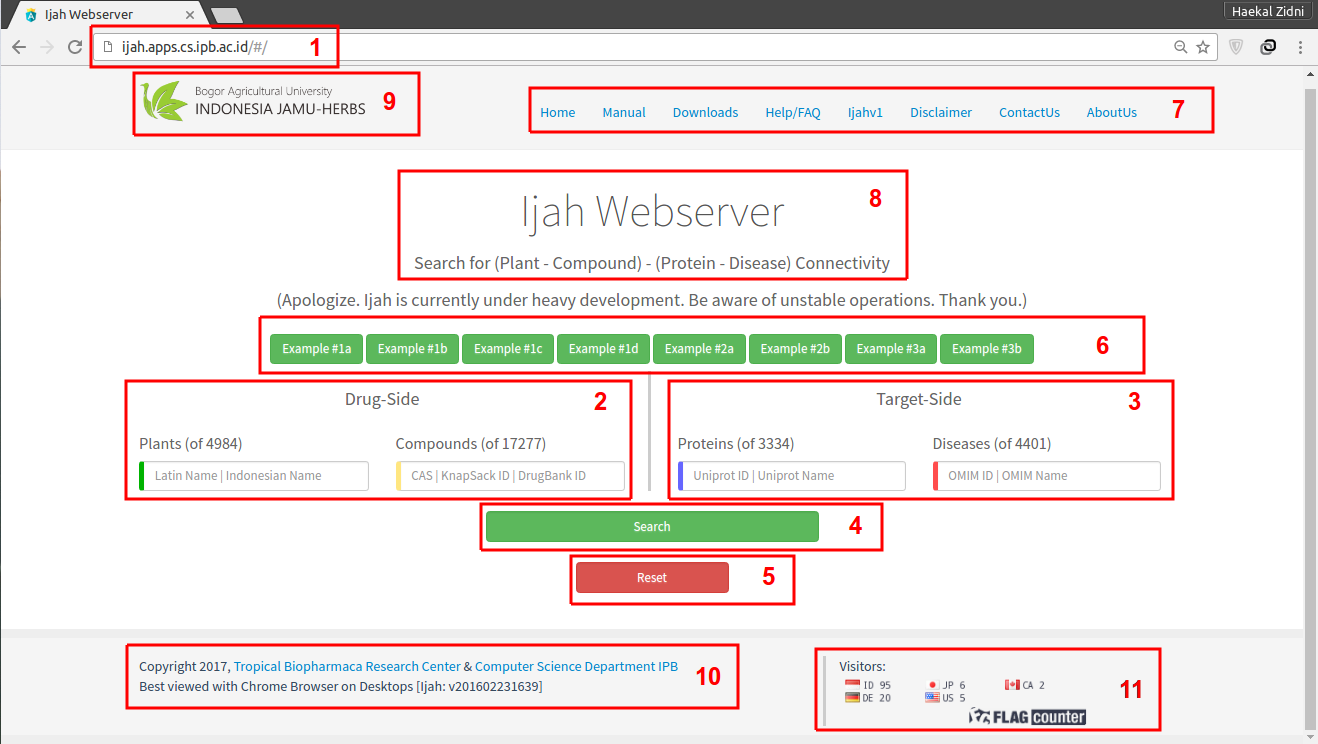
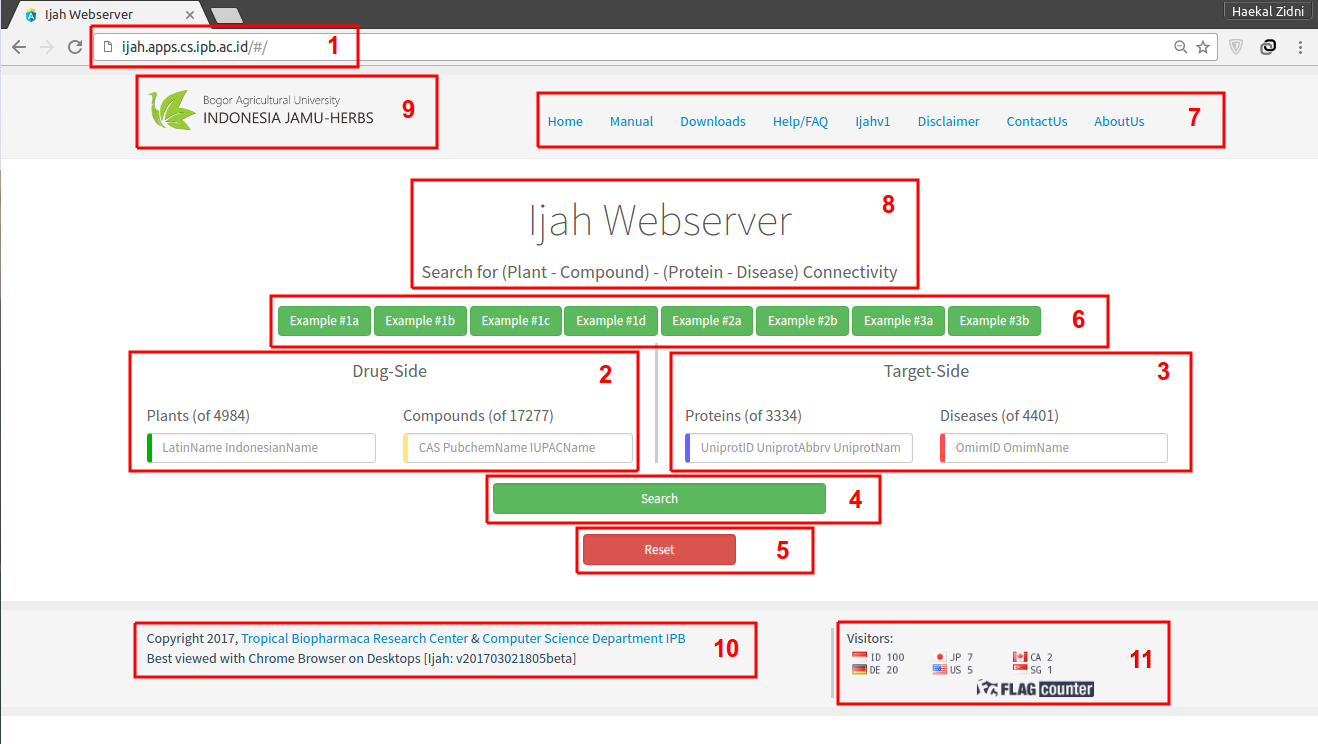
adapted footer to current version number, adapted images and added IUPAC name to input explanation as per current version

Changed region(s): [[0.0933, 0.0309, 0.9332, 0.9583], [0.9643, 0.0927, 1.0, 0.9892], [0.6222, 0.8347, 0.9021, 0.9892]]

diff --git a/webserver/manual/manual-id/src/chap1.tex b/webserver/manual/manual-id/src/chap1.tex
@@ -68,11 +68,11 @@
 			\paragraph{Plants}
 			Input Plant terdiri dari nama Latin dan nama Indonesia dari tanaman, yang dipisahkan oleh suatu garis vertikal. Hal ini memudahkan jika kita hanya mengetahui nama latin suatu tanaman dan tidak mengetahui nama lokalnya, begitu pula sebaliknya jika hanya mengetahui nama lokalnya. Selain membantu pencarian, pada kasus salah satu nama tidak diketahui maka akan didapat pengetahuan mengenai nama tanaman tersebut.
 			\paragraph{Compounds}
-			Input Compound terdiri dari ID CAS, \hyperref[knapsack]{ID KNApSAcK}, atau \hyperref[drugbank]{ID DrugBank} dari senyawa tersebut, setiap ID dipisahkan oleh garis vertikal. 
+			Input Compound terdiri dari ID CAS, \hyperref[pubchem]{ID PubChem}, atau nama IUPAC dari senyawa tersebut, setiap ID dipisahkan oleh garis vertikal. 
 		\subsubsection{Target-side} \label{sssec:target input}
 		Pada Target-side, input terdiri dari Protein dan penyakit (Disease). Untuk menjaga konsistensi, ketika salah satu dipilih, maka pilihan lain akan menghilang, misal kita telah memilih untuk menginputkan Protein, maka Disease tidak bisa dipilih, begitu pula sebaliknya. Jika ingin mengembalikan/mengosongkan kondisi input kembali, gunakan tombol \hyperref[reset]{\textbf{Reset}}.
 			\paragraph{Protein}
-			Input Protein terdiri dari \hyperref[uniprot]{nama Uniprot atau ID Uniprot}. Nama dan ID dipisahkan oleh garis vertikal.
+			Input Protein terdiri dari \hyperref[uniprot]{nama Uniprot, singkatan \emph{abbreviation} Uniprot, atau ID Uniprot}. Nama dan ID dipisahkan oleh garis vertikal.
 			\paragraph{Disease}
 			Input Disease terdiri dari \hyperref[omim]{nama OMIM atau ID OMIM}. Nama dan ID dipisahkan oleh garis vertikal.
 

diff --git a/webserver/manual/manual-id/src/chap2.tex b/webserver/manual/manual-id/src/chap2.tex
@@ -82,14 +82,14 @@ Setelah proses selesai, maka luaran \emph{(output)} yang dihasilkan sudah dapat 
 	\end{figure}
 	
 	Output Summary adalah ringkasan dari proses output, yang meliputi:
-	\begin{itemize}
+	\begin{enumerate}
 	\item \textbf{Minimum Connectivity Weight to Process} -- nilai minimum skor yang diproses, dapat diubah melalui filter yang akan dijelaskan di bagian \hyperref[nav]{Filter pada Navigasi}.
 	\item \textbf{Connectivity Score} -- jumlah total dari nilai seluruh konektivitas (1 artinya 100\% terhubung, 0 tidak terhubung, di antara 1 dan 0 berarti hasil prediksi yang nilainya belum 100\%, seluruh keterhubungan dijumlah untuk mendapat nilai total).
 	\item \textbf{Number of Unique Items} -- jumlah entitas unik (tidak termasuk pengulangan) yang terlibat dalam proses.
 	\item \textbf{Compound-Protein Connectivity} -- jumlah konektivitas senyawa dan protein. \textbf{Known by experiment} artinya data sudah valid 100\%, berasal dari pangkalan data, sedangkan \textbf{Known by prediction} berarti konektivitas hasil prediksi algoritme, \textbf{Unknown} artinya konektivitas yang tidak diketahui baik dari pangkalan data maupun hasil prediksi algoritme.
 	\item \textbf{Mode} -- mode proses, apakah Search saja atau Search and Predict.
 	\item \textbf{Elapsed Time} -- waktu yang dihabiskan untuk menyelesaikan proses.
-	\end{itemize}
+	\end{enumerate}
 	
 	\subsection{Connectivity Graph} \label{graph}
 	Connectivity Graph merupakan model output yang berupa \emph{multi-partite graph}, yaitu graf yang verteksnya terbagi menjadi beberapa partisi.
